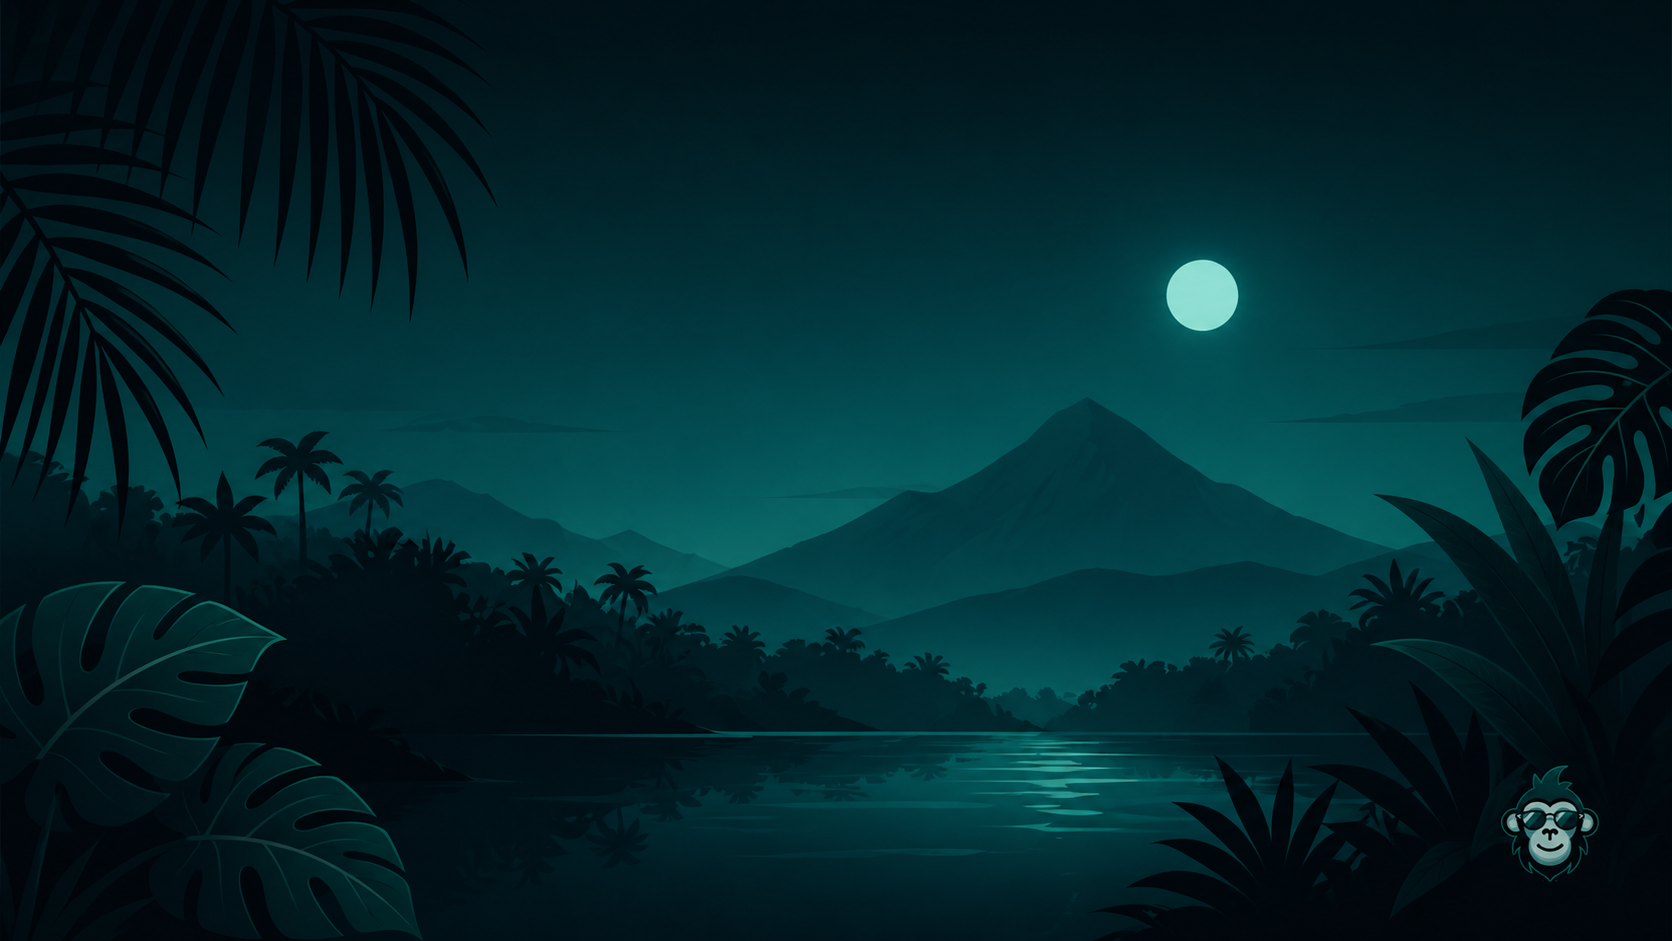
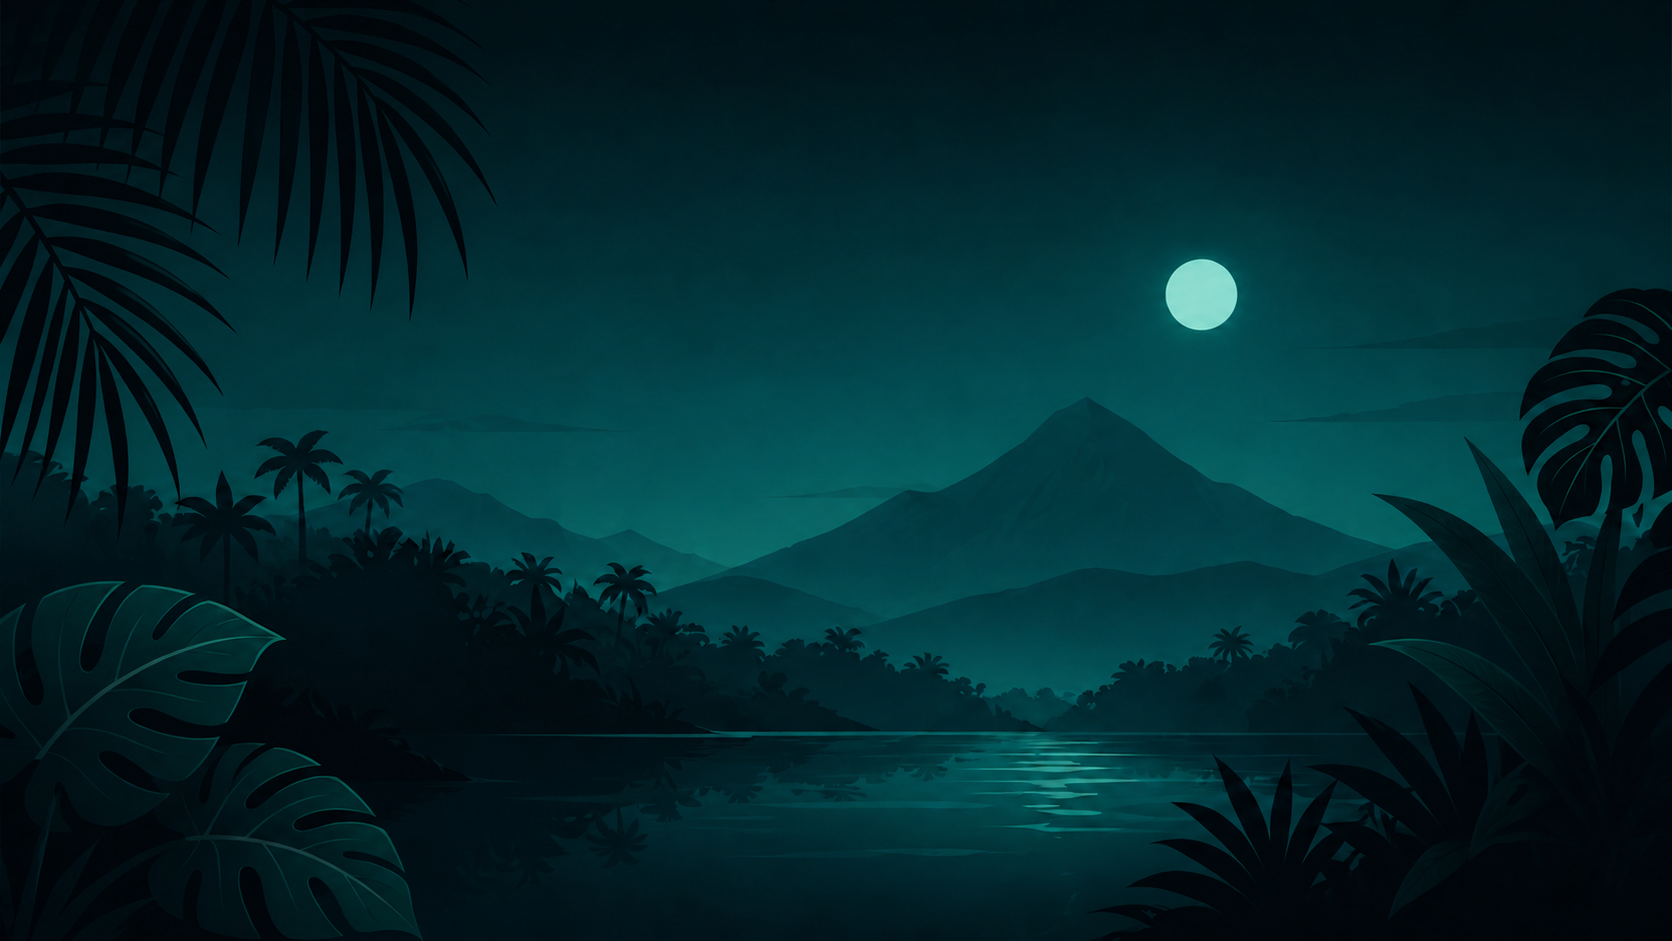
release: v0.6.14-beta.54

Changed region(s): [[0.9019, 0.4315, 0.9952, 0.5547], [0.9019, 0.8013, 0.9641, 0.9245], [0.7464, 0.8629, 0.7775, 0.8937]]

diff --git a/web/index.html b/web/index.html
@@ -217,19 +217,19 @@
       already use — Claude Code, OpenCode, Gemini, Cursor. Yours alone.
     </p>
     <p class="tagline" style="font-size: 15px; color: var(--accent); margin-top: -32px;">
-      Public beta v0.6.14-beta.53 — unsigned installer preview with Tytus OS v1.0.38, Atomek 0.4.25, JULI3TA 0.3.21, and switchAILocal 0.5.17 readiness.
+      Public beta v0.6.14-beta.54 — unsigned installer preview with Tytus OS v1.0.39, Atomek 0.4.25, JULI3TA 0.3.21, and switchAILocal 0.5.17 readiness.
     </p>
 
     <h2>Install public beta</h2>
 
     <div class="cmd" id="cmd-unix">
-      <code>curl -fsSL https://get.traylinx.com/install.sh | TYTUS_RELEASE_TAG=v0.6.14-beta.53 sh</code>
+      <code>curl -fsSL https://get.traylinx.com/install.sh | TYTUS_RELEASE_TAG=v0.6.14-beta.54 sh</code>
       <button onclick="copyCmd('cmd-unix', this)">copy</button>
     </div>
     <div class="small">macOS &middot; Linux &middot; downloads checksum-verified release artifacts; no Rust toolchain required.</div>
 
     <div class="cmd" id="cmd-win" style="margin-top: 20px;">
-      <code>$env:TYTUS_RELEASE_TAG="v0.6.14-beta.53"; irm https://get.traylinx.com/install.ps1 | iex</code>
+      <code>$env:TYTUS_RELEASE_TAG="v0.6.14-beta.54"; irm https://get.traylinx.com/install.ps1 | iex</code>
       <button onclick="copyCmd('cmd-win', this)">copy</button>
     </div>
     <div class="small">Windows &middot; zip technical preview. CLI works; tunnel/driver packaging is not GA yet.</div>
@@ -245,30 +245,30 @@
         <h3>macOS .pkg</h3>
         <p>Unsigned public-beta package. Expect Gatekeeper warning.</p>
         <div class="btns">
-          <a class="btn" href="https://github.com/traylinx/tytus-cli/releases/download/v0.6.14-beta.53/Tytus-0.6.14-aarch64-apple-darwin-unsigned-PUBLIC-BETA-UNSIGNED.pkg">Apple Silicon</a>
-          <a class="btn secondary" href="https://github.com/traylinx/tytus-cli/releases/download/v0.6.14-beta.53/Tytus-0.6.14-x86_64-apple-darwin-unsigned-PUBLIC-BETA-UNSIGNED.pkg">Intel</a>
+          <a class="btn" href="https://github.com/traylinx/tytus-cli/releases/download/v0.6.14-beta.54/Tytus-0.6.14-aarch64-apple-darwin-unsigned-PUBLIC-BETA-UNSIGNED.pkg">Apple Silicon</a>
+          <a class="btn secondary" href="https://github.com/traylinx/tytus-cli/releases/download/v0.6.14-beta.54/Tytus-0.6.14-x86_64-apple-darwin-unsigned-PUBLIC-BETA-UNSIGNED.pkg">Intel</a>
         </div>
       </div>
       <div class="download-card">
         <h3>Linux .deb</h3>
         <p>Unsigned public-beta Debian/Ubuntu package.</p>
         <div class="btns">
-          <a class="btn" href="https://github.com/traylinx/tytus-cli/releases/download/v0.6.14-beta.53/Tytus-0.6.14-x86_64-unknown-linux-gnu-unsigned-PUBLIC-BETA-UNSIGNED.deb">Download .deb</a>
+          <a class="btn" href="https://github.com/traylinx/tytus-cli/releases/download/v0.6.14-beta.54/Tytus-0.6.14-x86_64-unknown-linux-gnu-unsigned-PUBLIC-BETA-UNSIGNED.deb">Download .deb</a>
         </div>
       </div>
       <div class="download-card">
         <h3>Windows</h3>
         <p>Zip technical preview. MSI comes after signing/driver packaging.</p>
         <div class="btns">
-          <a class="btn" href="https://github.com/traylinx/tytus-cli/releases/download/v0.6.14-beta.53/tytus-windows-x86_64.zip">Download zip</a>
+          <a class="btn" href="https://github.com/traylinx/tytus-cli/releases/download/v0.6.14-beta.54/tytus-windows-x86_64.zip">Download zip</a>
         </div>
       </div>
       <div class="download-card">
         <h3>Checksums + release notes</h3>
         <p>Verify every asset before installing.</p>
         <div class="btns">
-          <a class="btn" href="https://github.com/traylinx/tytus-cli/releases/download/v0.6.14-beta.53/SHA256SUMS">SHA256SUMS</a>
-          <a class="btn secondary" href="https://github.com/traylinx/tytus-cli/releases/tag/v0.6.14-beta.53">Release</a>
+          <a class="btn" href="https://github.com/traylinx/tytus-cli/releases/download/v0.6.14-beta.54/SHA256SUMS">SHA256SUMS</a>
+          <a class="btn secondary" href="https://github.com/traylinx/tytus-cli/releases/tag/v0.6.14-beta.54">Release</a>
         </div>
       </div>
     </div>

diff --git a/docs/guides/tytus-ecosystem.md b/docs/guides/tytus-ecosystem.md
@@ -1,6 +1,6 @@
 # Tytus ecosystem guide
 
-Last updated: 2026-05-13. Applies to public beta `tytus` v0.6.14-beta.53.
+Last updated: 2026-05-13. Applies to public beta `tytus` v0.6.14-beta.54.
 
 Tytus is three pieces that should feel like one product:
 
@@ -10,7 +10,7 @@ Tytus is three pieces that should feel like one product:
 
 ## Current release status
 
-| Surface | Status in v0.6.14-beta.53 |
+| Surface | Status in v0.6.14-beta.54 |
 |---|---|
 | macOS | Unsigned public beta `.pkg` for Apple Silicon and Intel. Full CLI + tray + TytusOS path. Gatekeeper warning expected; Control-click → Open. |
 | Linux | Unsigned public beta `.deb` for Ubuntu/Debian x86_64. CLI, daemon, tunnel, MCP, TytusOS browser path, desktop entry, and systemd user service. |
@@ -61,7 +61,7 @@ http://localhost:4242/
 Download `tytus-windows-x86_64.zip` from the public beta page or use:
 
 ```powershell
-$env:TYTUS_RELEASE_TAG="v0.6.14-beta.53"; irm https://get.traylinx.com/install.ps1 | iex
+$env:TYTUS_RELEASE_TAG="v0.6.14-beta.54"; irm https://get.traylinx.com/install.ps1 | iex
 ```
 
 Windows is a CLI/MCP technical preview until MSI signing, SmartScreen behavior, Wintun/driver packaging, and fresh-VM tunnel smoke pass.

diff --git a/docs/guides/public-beta-install.md b/docs/guides/public-beta-install.md
@@ -1,6 +1,6 @@
 # Public Beta Install Guide
 
-> For `v0.6.14-beta.53`. This is a technical preview, not production GA.
+> For `v0.6.14-beta.54`. This is a technical preview, not production GA.
 
 ## Start here
 
@@ -68,7 +68,7 @@ Unzip it and run from PowerShell. Windows is still CLI/MCP technical preview: MS
 Optional PowerShell installer:
 
 ```powershell
-$env:TYTUS_RELEASE_TAG="v0.6.14-beta.53"; irm https://get.traylinx.com/install.ps1 | iex
+$env:TYTUS_RELEASE_TAG="v0.6.14-beta.54"; irm https://get.traylinx.com/install.ps1 | iex
 ```
 
 ## Command-line installers
@@ -76,13 +76,13 @@ $env:TYTUS_RELEASE_TAG="v0.6.14-beta.53"; irm https://get.traylinx.com/install.p
 macOS/Linux:
 
 ```bash
-curl -fsSL https://get.traylinx.com/install.sh | TYTUS_RELEASE_TAG=v0.6.14-beta.53 sh
+curl -fsSL https://get.traylinx.com/install.sh | TYTUS_RELEASE_TAG=v0.6.14-beta.54 sh
 ```
 
 Windows:
 
 ```powershell
-$env:TYTUS_RELEASE_TAG="v0.6.14-beta.53"; irm https://get.traylinx.com/install.ps1 | iex
+$env:TYTUS_RELEASE_TAG="v0.6.14-beta.54"; irm https://get.traylinx.com/install.ps1 | iex
 ```
 
 ## First-run wizard

diff --git a/README.md b/README.md
@@ -2,7 +2,7 @@
 
 > Private AI pods, TytusOS desktop, and a stable OpenAI-compatible gateway from one local CLI.
 
-Current public beta: **v0.6.14-beta.53** (2026-05-13).
+Current public beta: **v0.6.14-beta.54** (2026-05-13).
 
 ## Install
 
@@ -24,12 +24,12 @@ Checksum-verified installer commands are also available:
 
 ```bash
 # macOS / Linux public beta
-curl -fsSL https://get.traylinx.com/install.sh | TYTUS_RELEASE_TAG=v0.6.14-beta.53 sh
+curl -fsSL https://get.traylinx.com/install.sh | TYTUS_RELEASE_TAG=v0.6.14-beta.54 sh
 ```
 
 ```powershell
 # Windows public beta preview
-$env:TYTUS_RELEASE_TAG="v0.6.14-beta.53"; irm https://get.traylinx.com/install.ps1 | iex
+$env:TYTUS_RELEASE_TAG="v0.6.14-beta.54"; irm https://get.traylinx.com/install.ps1 | iex
 ```
 
 Homebrew remains available for the latest stable tap release:
